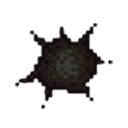
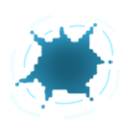
feat: adiciona fundo gif ao tabuleiro

diff --git a/src/model/Tabuleiro.java b/src/model/Tabuleiro.java
@@ -23,14 +23,36 @@ public class Tabuleiro extends JFrame {
     }
 
     private void montarJogo(Jogo jogo) {
-        getContentPane().removeAll();
+        JPanel fundo = new JPanel(new BorderLayout()) {
+            @Override
+            protected void paintComponent(Graphics g) {
+                super.paintComponent(g);
+
+                Image img = ImageProvider.carregar("fundo.gif");
+                int iw = img.getWidth(null);
+                int ih = img.getHeight(null);
+
+                double escala = Math.max((double) getWidth() / iw, (double) getHeight() / ih);
+                int w = (int) (iw * escala);
+                int h = (int) (ih * escala);
+                int x = (getWidth() - w) / 2;
+                int y = (getHeight() - h) / 2;
+
+                Graphics2D g2 = (Graphics2D) g.create();
+                g2.setRenderingHint(RenderingHints.KEY_INTERPOLATION,
+                        RenderingHints.VALUE_INTERPOLATION_BILINEAR);
+                g2.drawImage(img, x, y, w, h, this);
+                g2.dispose();
+            }
+        };
+        setContentPane(fundo);
         int n = jogo.getMatriz().length;
         boolean[][] atingido = new boolean[n][n];
         boolean[][] tiroNaAgua = new boolean[n][n];
         JPanel tabuleiroMatriz = new JPanel() {
             @Override
             protected void paintComponent(Graphics g) {
-                super.paintComponent(g);   // fundo do painel
+                super.paintComponent(g);
 
                 int colunas = jogo.getMatriz().length + 1;
                 Component primeira = getComponent(colunas + 1);            // casa A1
@@ -308,6 +330,9 @@ public class Tabuleiro extends JFrame {
         add(painelSuperior, BorderLayout.NORTH);
         add(painelCentral, BorderLayout.CENTER);
 
+        tornarTransparente(getContentPane());
+        linhaJogo.setOpaque(true);
+        linhaJogo.setBackground(new Color(238, 238, 238));
         revalidate();
         repaint();
 
@@ -320,5 +345,15 @@ public class Tabuleiro extends JFrame {
         btnReiniciar.addActionListener(e -> {
             montarJogo(jogo.reiniciar());
         });
+    }
+    private void tornarTransparente(Container container) {
+        for (Component componente : container.getComponents()) {
+            if (componente instanceof JPanel painel) {
+                painel.setOpaque(false);
+            }
+            if (componente instanceof Container filho) {
+                tornarTransparente(filho);
+            }
+        }
     }
 }
